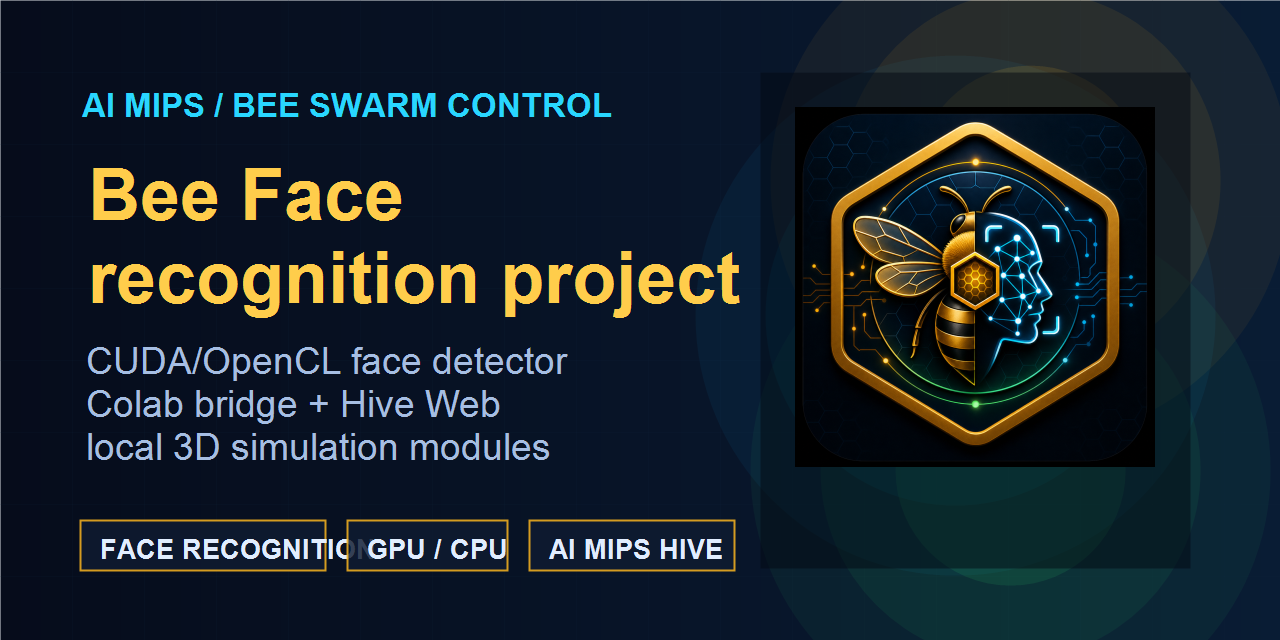
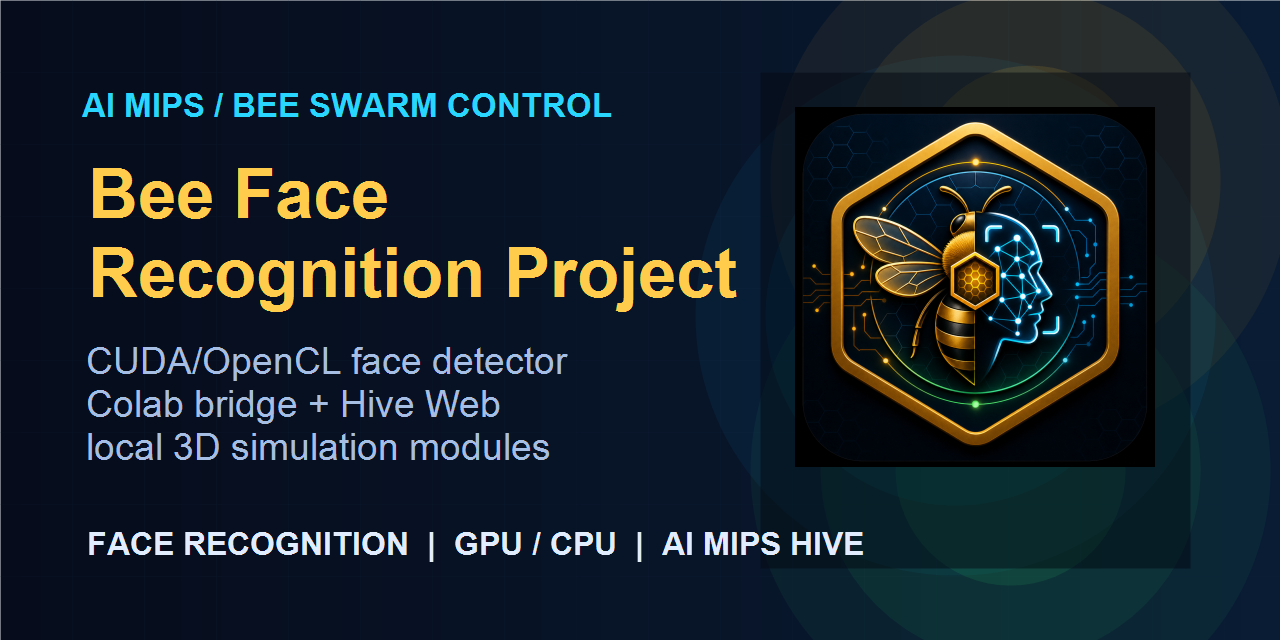
Normalize Bee Face Recognition title

Changed region(s): [[0.0625, 0.8125, 0.6875, 0.9062], [0.0625, 0.375, 0.5938, 0.5], [0.0625, 0.25, 0.3125, 0.3438]]

diff --git a/index.html b/index.html
@@ -4,13 +4,13 @@
   <meta charset="utf-8">
   <meta name="viewport" content="width=device-width, initial-scale=1">
   <meta name="referrer" content="no-referrer">
-  <meta name="description" content="Bee Face recognition project: CUDA/OpenCL face detector, Colab bridge, AI MIPS Hive Web interface, and local 3D simulation tools.">
-  <meta property="og:title" content="Bee Face recognition project">
+  <meta name="description" content="Bee Face Recognition Project: CUDA/OpenCL face detector, Colab bridge, AI MIPS Hive Web interface, and local 3D simulation tools.">
+  <meta property="og:title" content="Bee Face Recognition Project">
   <meta property="og:description" content="Face recognition detector with GPU/CPU modes, Colab bridge, AI MIPS Hive Web, and local simulation modules.">
   <meta property="og:image" content="https://holodininyaroslav.github.io/bee-face-recognition-project/assets/project-social-preview.png">
   <meta property="og:type" content="website">
   <meta name="twitter:card" content="summary_large_image">
-  <title>Bee Face recognition project</title>
+  <title>Bee Face Recognition Project</title>
   <link rel="icon" type="image/png" href="assets/project-avatar.png">
   <link rel="stylesheet" href="styles.css">
 </head>
@@ -18,7 +18,7 @@
   <header class="topbar">
     <div>
       <div class="eyebrow">AI MIPS / BEE SWARM CONTROL</div>
-      <h1>Bee Face recognition project</h1>
+      <h1>Bee Face Recognition Project</h1>
     </div>
     <nav class="nav" aria-label="Language">
       <button class="lang active" data-lang="en" type="button">EN</button>
@@ -31,7 +31,7 @@
     <section id="home" class="hero view active">
       <div class="hero-copy">
         <p class="kicker" data-i18n="kicker">COLAB GPU / FACE DETECTION / PROJECT INTERFACE</p>
-        <h2 data-i18n="title">Welcome to Bee Face recognition project</h2>
+        <h2 data-i18n="title">Welcome to Bee Face Recognition Project</h2>
         <p class="lead" data-i18n="lead">
           Upload screenshots, recognize faces through the connected Colab detector, and inspect the same result stream inside the integrated AI MIPS project view.
         </p>

diff --git a/script.js b/script.js
@@ -157,7 +157,7 @@ async function requireLocalBridge(reason) {
 const translations = {
   en: {
     kicker: "COLAB GPU / FACE DETECTION / PROJECT INTERFACE",
-    title: "Welcome to Bee Face recognition project",
+    title: "Welcome to Bee Face Recognition Project",
     lead: "Upload screenshots, recognize faces through the connected Colab detector, and inspect the same result stream inside the integrated AI MIPS project view.",
     simple: "Simple demonstration",
     complex: "Complex demonstration integrated into the project",
@@ -225,7 +225,7 @@ const translations = {
   },
   ru: {
     kicker: "COLAB GPU / РАСПОЗНАВАНИЕ ЛИЦ / ИНТЕРФЕЙС ПРОЕКТА",
-    title: "Добро пожаловать в Bee Face recognition project",
+    title: "Добро пожаловать в Bee Face Recognition Project",
     lead: "Загружайте скриншоты, распознавайте лица через подключенный Colab-детектор и смотрите тот же поток результатов в интегрированном интерфейсе AI MIPS.",
     simple: "Простая демонстрация",
     complex: "Сложная демонстрация, интегрированная в проект",
@@ -278,7 +278,7 @@ const translations = {
   },
   he: {
     kicker: "COLAB GPU / זיהוי פנים / ממשק פרויקט",
-    title: "ברוכים הבאים אל Bee Face recognition project",
+    title: "ברוכים הבאים אל Bee Face Recognition Project",
     lead: "העלו צילומי מסך, הפעילו זיהוי פנים דרך גלאי Colab המחובר, וצפו באותו זרם תוצאות בממשק AI MIPS המשולב.",
     simple: "הדגמה פשוטה",
     complex: "הדגמה מורכבת המשולבת בפרויקט",

diff --git a/backup/index.html b/backup/index.html
@@ -3,7 +3,7 @@
 <head>
   <meta charset="utf-8">
   <meta name="viewport" content="width=device-width, initial-scale=1">
-  <title>Backup Bee Face recognition interface</title>
+  <title>Backup Bee Face Recognition Interface</title>
   <style>
     :root { color-scheme: dark; --bg:#07101f; --line:#31415f; --gold:#ffd057; --text:#eef5ff; --muted:#a9b8d2; }
     * { box-sizing: border-box; }